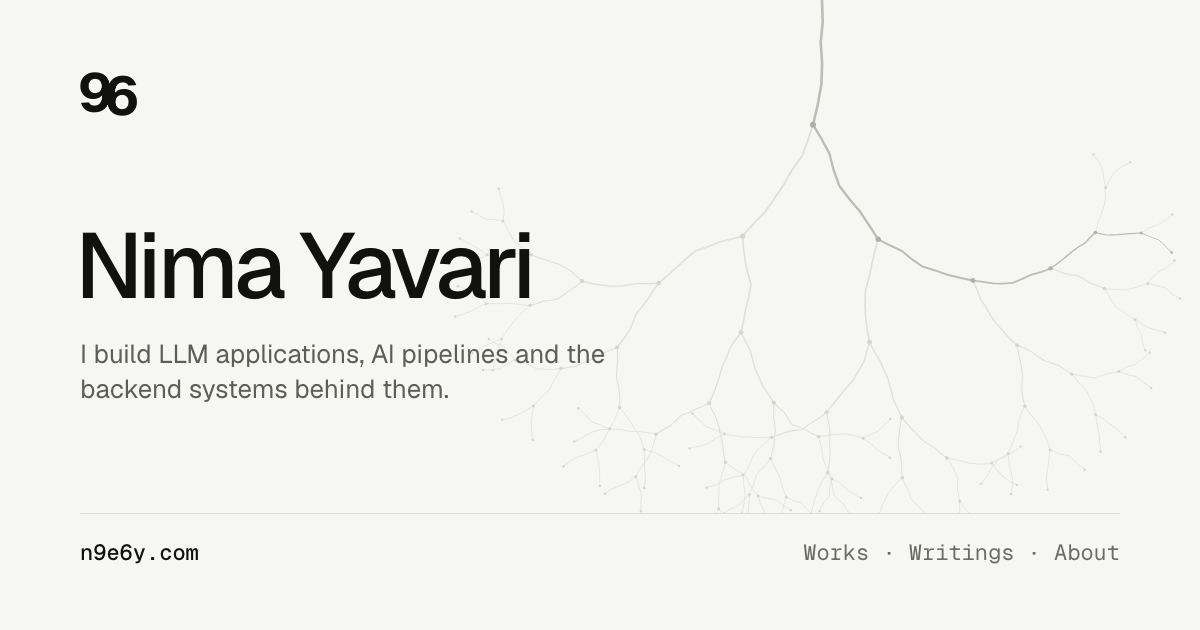
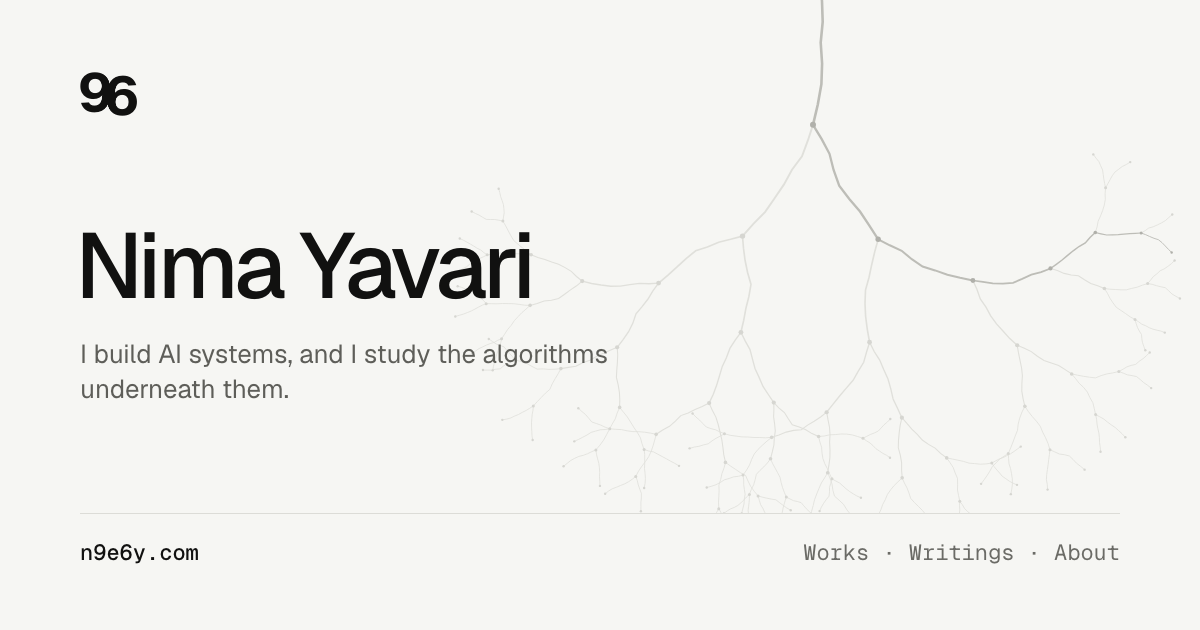
chore: update site metadata, improve uptime checks, and add support for AI crawlers

Changed region(s): [[0.0617, 0.5429, 0.5242, 0.6333]]

diff --git a/assets/charts.js b/assets/charts.js
@@ -1,6 +1,6 @@
 // Figures: draws an SVG chart from the <table> inside each <figure class="fig" data-chart="...">.
 // The table stays as the accessible "Data" view and is the source for Copy CSV.
-// Options go in data-opts as JSON. Chart kinds: bars, hbar, split, stack, multiples, dumbbell, line, heatmap.
+// Options go in data-opts as JSON. Chart kinds: bars, hbar, split, stack, multiples, dumbbell, line, heatmap, graph, trace.
 (function () {
   var NS = 'http://www.w3.org/2000/svg';
   var reduce = matchMedia('(prefers-reduced-motion: reduce)').matches;
@@ -87,7 +87,7 @@
     node.addEventListener('mouseleave', off); node.addEventListener('blur', off);
   }
 
-  // ---- Charts. Each returns the draw-in direction ('up' for bars). Labels and axes get fix: 1 / class 'static' so only the data wipes in. ----
+  // ---- Charts. Each returns the draw-in direction ('up' for bars, 'down' for traces, nothing for left to right). Labels and axes get fix: 1 / class 'static' so only the data wipes in. ----
   var CHARTS = {};
 
   // Vertical bars (histograms, values over a category). hi: [from, to] indices drawn in ink.
@@ -300,6 +300,71 @@
     });
   };
 
+  // Tree or search space from an edge list (columns: from, to; the first row's "from" is the root). Breadth-first layers
+  // become columns, so the left-to-right wipe reads as the search frontier moving out. o.path: nodes drawn in ink (with
+  // the edges between them); o.miss: a node drawn dashed (not found). Drawn at the container's width.
+  CHARTS.graph = function (svg, d, o, tip) {
+    var W = o.w || Math.max(300, Math.round(svg.parentNode.clientWidth) || 680), rowH = 40, CH = 7.3;
+    var kids = {}, parent = {}, depth = {}, order = [];
+    d.rows.forEach(function (r) { (kids[r[0]] = kids[r[0]] || []).push(r[1]); parent[r[1]] = r[0]; });
+    var root = d.rows[0][0], q = [root];
+    depth[root] = 0;
+    while (q.length) {
+      var v = q.shift(); order.push(v);
+      (kids[v] || []).forEach(function (c) { if (depth[c] == null) { depth[c] = depth[v] + 1; q.push(c); } });
+    }
+    // Leaves take one row each, in depth-first order; a parent sits halfway between its first and last child.
+    var y = {}, rows = 0;
+    (function place(v) {
+      var c = kids[v] || [];
+      if (!c.length) { y[v] = rows++; return; }
+      c.forEach(place); y[v] = (y[c[0]] + y[c[c.length - 1]]) / 2;
+    })(root);
+    var layers = max(order.map(function (v) { return depth[v]; })) + 1;
+    var room = max(order.filter(function (v) { return !(kids[v] || []).length; }).map(function (v) { return v.length * CH; })) + 24;
+    var colW = layers > 1 ? (W - room - 8) / (layers - 1) : 0, H = rows * rowH;
+    var X = function (v) { return 6 + depth[v] * colW; }, Y = function (v) { return rowH / 2 + y[v] * rowH; };
+    var on = {};
+    (o.path || []).forEach(function (v) { on[v] = 1; });
+    svg.setAttribute('viewBox', '0 0 ' + W + ' ' + H);
+    order.forEach(function (v) {
+      var p = parent[v];
+      if (p == null) return;
+      var ink = on[v] && on[p], xm = (X(p) + X(v)) / 2;
+      el('path', { d: 'M' + r1(X(p) + 5) + ',' + r1(Y(p)) + 'H' + r1(xm) + 'V' + r1(Y(v)) + 'H' + r1(X(v) - 6),
+        style: 'fill:none;stroke:var(' + (ink ? '--ink' : '--line2') + ');stroke-width:' + (ink ? 1.5 : 1) }, svg);
+    });
+    order.forEach(function (v) {
+      var miss = v === o.miss, leaf = !(kids[v] || []).length, g = el('g', {}, svg);
+      el('circle', { cx: r1(X(v)), cy: r1(Y(v)), r: 5, style: miss ? 'fill:none;stroke:var(--ink);stroke-dasharray:3 2'
+        : on[v] ? 'fill:var(--ink)' : 'fill:var(--paper);stroke:var(--g5);stroke-width:1.5' }, g);
+      // Leaves are labelled to the right; inner nodes above, clear of their outgoing edges.
+      text(g, leaf ? X(v) + 14 : X(v) - 5, leaf ? Y(v) + 4 : Y(v) - 12, v, { ink: on[v] || miss, bold: on[v] });
+      point(g, v + ' · depth ' + depth[v], tip);
+    });
+  };
+
+  // Algorithm trace: one row per step, o.array drawn as cells. Columns: step, lo, mid, hi (indices into o.array).
+  // Cells outside lo..hi are discarded (light), mid is in ink. Steps run top to bottom, so it draws in downwards.
+  CHARTS.trace = function (svg, d, o, tip) {
+    var A = o.array || [], W = o.w || Math.max(300, Math.round(svg.parentNode.clientWidth) || 680), m = { l: o.left || 180 };
+    var cw = Math.min(48, (W - m.l) / A.length), ch = 32, gap = 14, H = d.rows.length * (ch + gap) - gap;
+    svg.setAttribute('viewBox', '0 0 ' + W + ' ' + H);
+    d.rows.forEach(function (r, i) {
+      var lo = num(r[1]), mid = num(r[2]), hi = num(r[3]), yy = i * (ch + gap);
+      text(svg, 0, yy + ch / 2 + 4, r[0], { ink: 1, fix: 1 });
+      A.forEach(function (v, k) {
+        var x = m.l + k * cw, inR = k >= lo && k <= hi, isM = k === mid;
+        var c = el('rect', { x: r1(x + 1), y: yy, width: r1(cw - 2), height: ch,
+          style: isM ? 'fill:var(--ink)' : inR ? 'fill:var(--paper);stroke:var(--g5)' : 'fill:var(--g1)' }, svg);
+        el('text', { x: r1(x + cw / 2), y: yy + ch / 2 + 4, 'text-anchor': 'middle', text: String(v),
+          style: 'fill:var(' + (isM ? '--paper' : inR ? '--ink' : '--g4') + ')' }, svg);
+        if (isM) point(c, r[0] + ' · lo ' + lo + ', mid ' + mid + ', hi ' + hi, tip);
+      });
+    });
+    return 'down';
+  };
+
   // ---- Figure wiring: Data toggle + Copy CSV ----
   function csv(table) {
     var q = function (v) { return /[",\n]/.test(v) ? '"' + v.replace(/"/g, '""') + '"' : v; };
@@ -333,7 +398,7 @@
     if (o.minW) svg.style.minWidth = o.minW + 'px';
     var dir = draw(svg, readTable(table), o, tipper(fig));
     // Data marks move into one group that wipes in; axes and labels (class "static") stay put underneath.
-    var marks = el('g', { class: 'draw' + (dir === 'up' ? ' up' : '') });
+    var marks = el('g', { class: 'draw' + (dir ? ' ' + dir : '') });
     [].slice.call(svg.childNodes).forEach(function (n) {
       if (!(n.classList && n.classList.contains('static'))) marks.appendChild(n);
     });

diff --git a/about.html b/about.html
@@ -16,7 +16,7 @@
 <meta property="og:image" content="https://n9e6y.com/assets/og.png" />
 <meta property="og:image:width" content="1200" />
 <meta property="og:image:height" content="630" />
-<meta property="og:image:alt" content="Nima Yavari: I build LLM applications, AI pipelines and the backend systems behind them." />
+<meta property="og:image:alt" content="Nima Yavari: I build AI systems, and I study the algorithms underneath them." />
 <meta property="profile:first_name" content="Nima" />
 <meta property="profile:last_name" content="Yavari" />
 <meta property="profile:username" content="n9e6y" />
@@ -40,8 +40,8 @@
     "image": "https://n9e6y.com/img/profile_picture/1.jpeg",
     "email": "mailto:n9e6y@outlook.com",
     "jobTitle": "Computer engineer",
-    "description": "Computer engineer building LLM applications, retrieval pipelines and concurrent backend systems in Python and Go.",
-    "knowsAbout": ["RAG", "AI agents", "NLP", "Recommender systems", "Representation learning", "Reinforcement learning", "Machine learning", "Python", "Go", "SQL"],
+    "description": "Computer engineer who builds AI systems (LLM applications, retrieval pipelines and backend systems in Python and Go) and is pursuing an M.Sc. in algorithms and computation.",
+    "knowsAbout": ["Algorithms", "RAG", "AI agents", "NLP", "Recommender systems", "Representation learning", "Reinforcement learning", "Machine learning", "Python", "Go", "SQL"],
     "sameAs": ["https://github.com/n9e6y", "https://x.com/n9e6y", "https://www.kaggle.com/nimayavari", "https://huggingface.co/n9e6y"]
   }
 }
@@ -148,9 +148,9 @@
       <figure class="portrait"><img src="/img/profile_picture/1.jpeg" alt="Portrait of Nima Yavari" width="640" height="640" /></figure>
       <div class="copy">
         <h2 class="name-line" id="name-line"><span>Nima<span class="hn hn-handle"><span>&nbsp;n<span class="hn hn-d"><span>9</span></span>e<span class="hn hn-d"><span>6</span></span>y</span></span>&nbsp;Yavari</span></h2>
-        <p class="big-p">I build LLM applications, AI pipelines and the backend systems behind them.</p>
+        <p class="big-p">I build AI systems, and I study the algorithms underneath them.</p>
         <div class="prose">
-          <p>I'm a CE working in applied AI and machine learning. I'm most comfortable somewhere between a messy dataset and a system that no longer needs me to watch it</p>
+          <p>Most of what I enjoy happens between messy data and a system that runs on its own. I work in applied AI and machine learning, and I'm pursuing an M.Sc. in Algorithms to understand the theory behind making those systems work.</p>
         </div>
       </div>
     </div>
@@ -168,7 +168,7 @@
     <section class="split">
       <div class="eyebrow">Journey</div>
       <div class="body">
-        <h2 class="h2">Design, then engineering.</h2>
+        <h2 class="h2">Not the shortest path.</h2>
         <div class="timeline" data-reveal>
           <div class="axis" aria-hidden="true"><span>2018</span><span>2019</span><span>2020</span><span>2021</span><span>2022</span><span>2023</span><span>2024</span><span>2025</span><span>2026</span><span>2027</span><span>2028</span><span>2029</span></div>
         <div class="tl-row">
@@ -181,7 +181,7 @@
         </div>
         <div class="tl-row">
           <div class="track"><span style="left:25.0%;width:33.3%;background:var(--ink)"></span></div>
-          <div class="what" style="margin-left:min(25.0%, calc(100% - 300px))"><b>B.Sc. Computer Engineering, IAU</b><span>2021 – 2025</span></div>
+          <div class="what" style="margin-left:min(25.0%, calc(100% - 300px))"><b>B.Sc. Computer Engineering, IAzad University</b><span>2021 – 2025</span></div>
         </div>
         <div class="tl-row">
           <div class="track"><span style="left:49.3%;width:5.6%;background:var(--ink)"></span></div>
@@ -189,7 +189,7 @@
         </div>
         <div class="tl-row">
           <div class="track"><span class="planned" style="left:72.9%;width:16.7%"></span><span class="maybe" style="left:89.6%;width:8.3%"></span></div>
-          <div class="what" style="margin-left:min(72.9%, calc(100% - 420px))"><b>M.Sc. Algorithms and Computation, UT</b><span>Oct 2026 – present · expected Oct 2028 or Oct 2029</span></div>
+          <div class="what" style="margin-left:min(72.9%, calc(100% - 420px))"><b>M.Sc. Algorithms and Computation, University of Tehran</b><span>Oct 2026 – present · expected Oct 2028 or Oct 2029</span></div>
         </div>
         </div>
         <div class="eyebrow" style="margin-top:12px;text-transform:none;letter-spacing:0">Gray = design and client work · ink = engineering · outline = expected</div>

diff --git a/index.html b/index.html
@@ -4,19 +4,19 @@
 <meta charset="UTF-8" />
 <meta name="viewport" content="width=device-width, initial-scale=1" />
 <title>Nima Yavari — Portfolio</title>
-<meta name="description" content="Nima — computer engineer building LLM applications, retrieval pipelines and concurrent backend systems in Python and Go." />
+<meta name="description" content="Nima Yavari (n9e6y) builds AI systems: LLM applications, retrieval pipelines and backends in Python and Go. He also studies the algorithms underneath them." />
 <link rel="canonical" href="https://n9e6y.com/" />
 <meta name="author" content="Nima Yavari" />
 <meta property="og:type" content="website" />
 <meta property="og:site_name" content="Nima Yavari" />
 <meta property="og:locale" content="en_US" />
 <meta property="og:title" content="Nima Yavari — Portfolio" />
-<meta property="og:description" content="Nima — computer engineer building LLM applications, retrieval pipelines and concurrent backend systems in Python and Go." />
+<meta property="og:description" content="Nima Yavari (n9e6y) builds AI systems: LLM applications, retrieval pipelines and backends in Python and Go. He also studies the algorithms underneath them." />
 <meta property="og:url" content="https://n9e6y.com/" />
 <meta property="og:image" content="https://n9e6y.com/assets/og.png" />
 <meta property="og:image:width" content="1200" />
 <meta property="og:image:height" content="630" />
-<meta property="og:image:alt" content="Nima Yavari: I build LLM applications, AI pipelines and the backend systems behind them." />
+<meta property="og:image:alt" content="Nima Yavari: I build AI systems, and I study the algorithms underneath them." />
 <meta name="twitter:card" content="summary_large_image" />
 <meta name="twitter:site" content="@n9e6y" />
 <meta name="twitter:creator" content="@n9e6y" />
@@ -31,6 +31,7 @@
       "name": "Nima Yavari",
       "alternateName": "n9e6y",
       "inLanguage": "en",
+      "description": "Nima Yavari (n9e6y) builds AI systems: LLM applications, retrieval pipelines and backends in Python and Go. He also studies the algorithms underneath them.",
       "publisher": { "@id": "https://n9e6y.com/#person" }
     },
     {
@@ -42,8 +43,8 @@
       "image": "https://n9e6y.com/img/profile_picture/1.jpeg",
       "email": "mailto:n9e6y@outlook.com",
       "jobTitle": "Computer engineer",
-      "description": "Computer engineer building LLM applications, retrieval pipelines and concurrent backend systems in Python and Go.",
-      "knowsAbout": ["RAG", "AI agents", "NLP", "Recommender systems", "Representation learning", "Reinforcement learning", "Machine learning", "Python", "Go", "SQL"],
+      "description": "Computer engineer who builds AI systems (LLM applications, retrieval pipelines and backend systems in Python and Go) and is pursuing an M.Sc. in algorithms and computation.",
+      "knowsAbout": ["Algorithms", "RAG", "AI agents", "NLP", "Recommender systems", "Representation learning", "Reinforcement learning", "Machine learning", "Python", "Go", "SQL"],
       "sameAs": ["https://github.com/n9e6y", "https://x.com/n9e6y", "https://www.kaggle.com/nimayavari", "https://huggingface.co/n9e6y"]
     }
   ]

diff --git a/blog.html b/blog.html
@@ -4,14 +4,14 @@
 <meta charset="UTF-8" />
 <meta name="viewport" content="width=device-width, initial-scale=1" />
 <title>Writing — Nima Yavari</title>
-<meta name="description" content="Notes on Go, language models and what I learn building things in public." />
+<meta name="description" content="Notes on algorithms, machine learning, language models and other things I find interesting." />
 <link rel="canonical" href="https://n9e6y.com/blog.html" />
 <meta name="author" content="Nima Yavari" />
 <meta property="og:type" content="website" />
 <meta property="og:site_name" content="Nima Yavari" />
 <meta property="og:locale" content="en_US" />
 <meta property="og:title" content="Writing — Nima Yavari" />
-<meta property="og:description" content="Notes on Go, language models and what I learn building things in public." />
+<meta property="og:description" content="Notes on algorithms, machine learning, language models and other things I find interesting." />
 <meta property="og:url" content="https://n9e6y.com/blog.html" />
 <meta property="og:image" content="https://n9e6y.com/assets/og/blog.png" />
 <meta property="og:image:width" content="1200" />
@@ -26,7 +26,7 @@
   "@type": "Blog",
   "url": "https://n9e6y.com/blog.html",
   "name": "Writing — Nima Yavari",
-  "description": "Notes on Go, language models and what I learn building things in public.",
+  "description": "Notes on algorithms, machine learning, language models and other things I find interesting.",
   "inLanguage": "en",
   "isPartOf": { "@id": "https://n9e6y.com/#website" },
   "author": { "@type": "Person", "@id": "https://n9e6y.com/#person", "name": "Nima Yavari", "url": "https://n9e6y.com/" },
@@ -133,7 +133,7 @@
     <div class="page-head" data-reveal>
       <div class="eyebrow">Writing</div>
       <h1 class="h1">Writing</h1>
-      <p class="intro">Notes on ml, language models and other things that i find interesting.</p>
+      <p class="intro">Notes on algorithms, ml, language models and other things that i find interesting.</p>
     </div>
     <div class="toolbar">
       <div class="filters" role="group" aria-label="Filter by tag">

diff --git a/assets/charts.css b/assets/charts.css
@@ -33,6 +33,7 @@
    group of data marks (labels stay put); a hand-written svg.draw wipes whole. Pages tune --wipe-time / --wipe-ease. */
 .js .fig .draw { clip-path: inset(-40px 100% -40px -40px); transition: clip-path var(--wipe-time, .7s) var(--wipe-ease, var(--ease)); }
 .js .fig .draw.up { clip-path: inset(100% -400px -40px -40px); }
+.js .fig .draw.down { clip-path: inset(-40px -400px 100% -40px); }
 .js .fig.drawn .draw { clip-path: inset(-40px -400px -40px -40px); }
 
 /* Data view: the table is the chart's source and its accessible alternative. */
